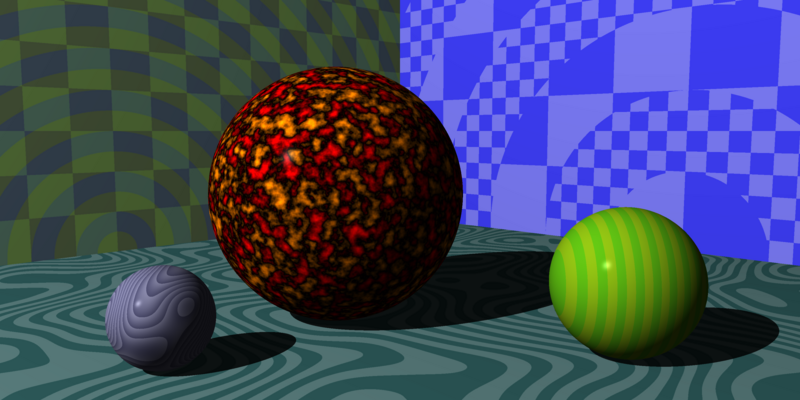
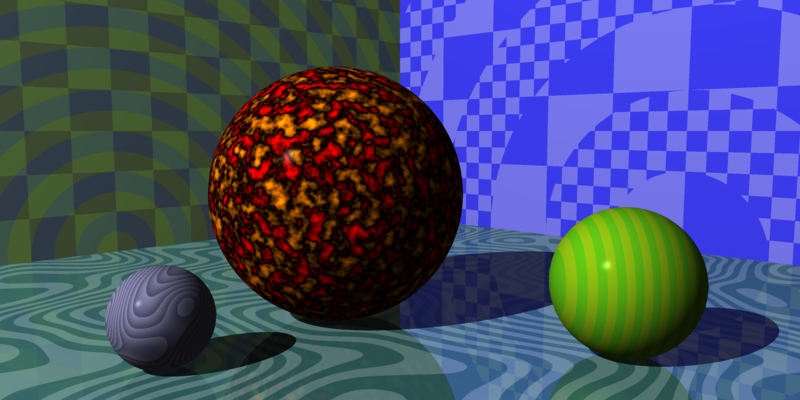
reflective surfaces

diff --git a/src/world.rs b/src/world.rs
@@ -48,22 +48,25 @@ pub mod world {
             xs
         }
 
-        pub fn shade_hit(&self, comps: &Computations) -> Color {
+        pub fn shade_hit(&self, comps: &Computations, remaining: usize) -> Color {
             // TODO: support multiple light sources, loop through all lights and sum the results
-            lighting(
+            let surface = lighting(
                      &comps.object,
                      &self.light,
                      &comps.over_point,
                      &comps.eyev,
                      &comps.normalv,
-                     self.is_shadowed(&comps.over_point))
+                     self.is_shadowed(&comps.over_point));
+            let reflected = self.reflected_color(comps, remaining);
+
+            surface.add(&reflected)
         }
 
-        pub fn color_at(&self, r: &Ray) -> Color {
+        pub fn color_at(&self, r: &Ray, remaining: usize) -> Color {
             let xs = self.intersect(r);
             if let Some(hit) = xs.iter().find(|x| x.t >= 0.0) {
                 let comps = hit.prepare_computations(r);
-                self.shade_hit(&comps)
+                self.shade_hit(&comps, remaining)
             } else {
                 Color::new(0.0, 0.0, 0.0)
             }
@@ -80,6 +83,16 @@ pub mod world {
                 Some(hit) => hit.t < distance,
                 None => false
             }
+        }
+
+        pub fn reflected_color(&self, comps: &Computations, remaining: usize) -> Color {
+            if remaining <= 0 || comps.object.material.reflective == 0.0 {
+                return Color::new(0.0, 0.0, 0.0);
+            }
+
+            let reflect_ray = Ray::new(comps.over_point, comps.reflectv);
+            let color = self.color_at(&reflect_ray, remaining - 1);
+            color * comps.object.material.reflective
         }
     }
 }
@@ -136,7 +149,7 @@ mod tests {
         let shape = &w.objects[0];
         let i = Intersection{t: 4.0, object: shape};
         let comps = i.prepare_computations(&r);
-        let c = w.shade_hit(&comps);
+        let c = w.shade_hit(&comps,5);
         assert_eq!(c, Color::new(0.38066, 0.47583, 0.2855));
     }
 
@@ -148,7 +161,7 @@ mod tests {
         let shape = &w.objects[1];
         let i = Intersection{t: 0.5, object: shape};
         let comps = i.prepare_computations(&r);
-        let c = w.shade_hit(&comps);
+        let c = w.shade_hit(&comps,5);
         assert_eq!(c, Color::new(0.9049844720832575, 0.9049844720832575, 0.9049844720832575));
     }
 
@@ -163,7 +176,7 @@ mod tests {
         let r = Ray::new(Tuple::point(0.0, 0.0, 5.0), Tuple::vector(0.0, 0.0, 1.0));
         let i = Intersection{t: 4.0, object: &w.objects[1]};
         let comps = i.prepare_computations(&r);
-        let c = w.shade_hit(&comps);
+        let c = w.shade_hit(&comps,5);
         assert_eq!(c, Color::new(0.1, 0.1, 0.1));
     }
 
@@ -171,7 +184,7 @@ mod tests {
     fn the_color_when_a_ray_misses() {
         let w = World::default_world();
         let r = Ray::new(Tuple::point(0.0, 0.0, -5.0), Tuple::vector(0.0, 1.0, 0.0));
-        let c = w.color_at(&r);
+        let c = w.color_at(&r,5);
         assert_eq!(c, Color::new(0.0, 0.0, 0.0));
     }
 
@@ -179,7 +192,7 @@ mod tests {
     fn the_color_when_a_ray_hits() {
         let w = World::default_world();
         let r = Ray::new(Tuple::point(0.0, 0.0, -5.0), Tuple::vector(0.0, 0.0, 1.0));
-        let c = w.color_at(&r);
+        let c = w.color_at(&r,5);
         assert_eq!(c, Color::new(0.38066, 0.47583, 0.2855));
     }
 
@@ -189,7 +202,7 @@ mod tests {
         w.objects[0].material.ambient = 1.0;
         w.objects[1].material.ambient = 1.0;
         let r = Ray::new(Tuple::point(0.0, 0.0, 0.75), Tuple::vector(0.0, 0.0, -1.0));
-        let c = w.color_at(&r);
+        let c = w.color_at(&r,5);
         let obj_color = match w.objects[1].material.pattern.pattern_type {
             PatternType::Solid(c) => c,
             _ => Color::new(0.0, 0.0, 0.0)
@@ -223,5 +236,123 @@ mod tests {
         let w = World::default_world();
         let p = Tuple::point(-2.0, 2.0, -2.0);
         assert_eq!(w.is_shadowed(&p), false);
+    }
+
+    #[test]
+    fn reflected_color_for_the_a_nonreflective_material() {
+        let light = Light::new_point_light(Tuple::point(-10.0, 10.0, -10.0), Color::new(1.0, 1.0, 1.0));
+        let mut s1 = Shape::sphere();
+        s1.material.pattern = Pattern::solid(Color::new(0.8, 1.0, 0.6), Matrix::identity(4));
+        s1.material.diffuse = 0.7;
+        s1.material.specular = 0.2;
+        let mut s2 = Shape::sphere();
+        s2.transform = Matrix::scale(0.5, 0.5, 0.5);
+        s2.material.ambient = 1.0;
+        let w = World {
+            light,
+            objects: vec![s1, s2],
+        };
+
+        let r = Ray::new(Tuple::point(0.0, 0.0, 0.0), Tuple::vector(0.0, 0.0, 1.0));
+        let i = Intersection{t: 1.0, object: &w.objects[1]};
+        let comps = i.prepare_computations(&r);
+        let color = w.reflected_color(&comps, 5);
+        assert_eq!(color, Color::new(0.0, 0.0, 0.0));
+    }
+
+    #[test]
+    fn reflected_color_for_a_reflective_material() {
+        let light = Light::new_point_light(Tuple::point(-10.0, 10.0, -10.0), Color::new(1.0, 1.0, 1.0));
+        let mut s1 = Shape::sphere();
+        s1.material.pattern = Pattern::solid(Color::new(0.8, 1.0, 0.6), Matrix::identity(4));
+        s1.material.diffuse = 0.7;
+        s1.material.specular = 0.2;
+        let mut s2 = Shape::sphere();
+        s2.transform = Matrix::scale(0.5, 0.5, 0.5);
+        s2.material.ambient = 1.0;
+        let mut s3 = Shape::plane();
+        s3.material.reflective = 0.5;
+        s3.transform = Matrix::translate(0.0, -1.0, 0.0);
+
+        let w = World {
+            light,
+            objects: vec![s1, s2, s3],
+        };
+
+        let r = Ray::new(Tuple::point(0.0, 0.0, -3.0), Tuple::vector(0.0, -2.0_f64.sqrt()/2.0, 2.0_f64.sqrt()/2.0));
+        let i = Intersection{t: 2.0_f64.sqrt(), object: &w.objects[2]};
+        let comps = i.prepare_computations(&r);
+        let color = w.reflected_color(&comps, 5);
+        assert_eq!(color, Color::new(0.190332201495133, 0.23791525186891627, 0.14274915112134975));
+    }
+
+    #[test]
+    fn shade_hit_for_a_reflective_material() {
+        let light = Light::new_point_light(Tuple::point(-10.0, 10.0, -10.0), Color::new(1.0, 1.0, 1.0));
+        let mut s1 = Shape::sphere();
+        s1.material.pattern = Pattern::solid(Color::new(0.8, 1.0, 0.6), Matrix::identity(4));
+        s1.material.diffuse = 0.7;
+        s1.material.specular = 0.2;
+        let mut s2 = Shape::sphere();
+        s2.transform = Matrix::scale(0.5, 0.5, 0.5);
+        s2.material.ambient = 1.0;
+        let mut s3 = Shape::plane();
+        s3.material.reflective = 0.5;
+        s3.transform = Matrix::translate(0.0, -1.0, 0.0);
+
+        let w = World {
+            light,
+            objects: vec![s1, s2, s3],
+        };
+
+        let r = Ray::new(Tuple::point(0.0, 0.0, -3.0), Tuple::vector(0.0, -2.0_f64.sqrt()/2.0, 2.0_f64.sqrt()/2.0));
+        let i = Intersection{t: 2.0_f64.sqrt(), object: &w.objects[2]};
+        let comps = i.prepare_computations(&r);
+        let color = w.shade_hit(&comps,5);
+        assert_eq!(color, Color::new(0.8767572837020907, 0.924340334075874, 0.8291742333283075));
+    }
+
+    #[test]
+    fn color_at_with_mutually_reflective_surfaces() {
+        let light = Light::new_point_light(Tuple::point(0.0, 0.0, 0.0), Color::new(1.0, 1.0, 1.0));
+        let mut lower = Shape::plane();
+        lower.material.reflective = 1.0;
+        lower.transform = Matrix::translate(0.0, -1.0, 0.0);
+        let mut upper = Shape::plane();
+        upper.material.reflective = 1.0;
+        upper.transform = Matrix::translate(0.0, 1.0, 0.0);
+        let w = World {
+            light,
+            objects: vec![lower, upper],
+        };
+        let r = Ray::new(Tuple::point(0.0, 0.0, 0.0), Tuple::vector(0.0, 1.0, 0.0));
+        let c = w.color_at(&r,5);
+        assert_eq!(c, Color::new(11.4,11.4,11.4));
+    }
+
+    #[test]
+    fn reflected_color_at_the_maximum_recursive_depth() {
+        let light = Light::new_point_light(Tuple::point(-10.0, 10.0, -10.0), Color::new(1.0, 1.0, 1.0));
+        let mut s1 = Shape::sphere();
+        s1.material.pattern = Pattern::solid(Color::new(0.8, 1.0, 0.6), Matrix::identity(4));
+        s1.material.diffuse = 0.7;
+        s1.material.specular = 0.2;
+        let mut s2 = Shape::sphere();
+        s2.transform = Matrix::scale(0.5, 0.5, 0.5);
+        s2.material.ambient = 1.0;
+        let mut s3 = Shape::plane();
+        s3.material.reflective = 0.5;
+        s3.transform = Matrix::translate(0.0, -1.0, 0.0);
+
+        let w = World {
+            light,
+            objects: vec![s1, s2, s3],
+        };
+
+        let r = Ray::new(Tuple::point(0.0, 0.0, -3.0), Tuple::vector(0.0, -2.0_f64.sqrt()/2.0, 2.0_f64.sqrt()/2.0));
+        let i = Intersection{t: 2.0_f64.sqrt(), object: &w.objects[2]};
+        let comps = i.prepare_computations(&r);
+        let color = w.reflected_color(&comps,0);
+        assert_eq!(color, Color::new(0.0, 0.0, 0.0));
     }
 }

diff --git a/src/ray.rs b/src/ray.rs
@@ -22,6 +22,7 @@ pub mod ray {
         pub normalv: Tuple,
         pub inside: bool,
         pub over_point: Tuple,
+        pub reflectv: Tuple,
     }
 
     impl<'a> Intersection<'a> {
@@ -32,7 +33,8 @@ pub mod ray {
             let inside = normalv.dot(&eyev) < 0.0;
             let normalv = if inside { normalv.negate() } else { normalv };
             let over_point = point.add(&normalv.multiply(EPSILON));
-            Computations { t: self.t, object: self.object, point, eyev, normalv, inside, over_point }
+            let reflectv = r.direction.reflect(&normalv);
+            Computations { t: self.t, object: self.object, point, eyev, normalv, inside, over_point, reflectv }
         }
     }
 
@@ -257,5 +259,14 @@ mod tests {
         assert_eq!(comps.eyev, Tuple::vector(0.0, 0.0, -1.0));
         assert_eq!(comps.normalv, Tuple::vector(0.0, 0.0, -1.0));
         assert_eq!(comps.inside, true);
+    }
+
+    #[test]
+    fn precomputing_the_reflection_vector() {
+        let s = Shape::plane();
+        let r = Ray::new(Tuple::point(0.0, 1.0, -1.0), Tuple::vector(0.0, -2.0_f64.sqrt() / 2.0, 2.0_f64.sqrt() / 2.0));
+        let i = super::ray::Intersection { t: 2.0_f64.sqrt(), object: &s };
+        let comps = i.prepare_computations(&r);
+        assert_eq!(comps.reflectv, Tuple::vector(0.0, 2.0_f64.sqrt() / 2.0, 2.0_f64.sqrt() / 2.0));
     }
 }

diff --git a/src/camera.rs b/src/camera.rs
@@ -74,7 +74,7 @@ pub mod camera {
             let iter = pixel_coordinates(self.vsize, self.hsize).par_bridge();
             iter.for_each(|(x, y)| {
                 let ray = self.ray_for_pixel(x, y);
-                let color = world.color_at(&ray);
+                let color = world.color_at(&ray, 5);
                 let mut image = image.lock().unwrap();
                 image.write_pixel(x, y, color);
                 drop(image); // unlock the mutex
@@ -89,7 +89,7 @@ pub mod camera {
             let bar = ProgressBar::new((self.vsize * self.hsize) as u64);
             for (x, y) in pixel_coordinates(self.vsize, self.hsize) {
                 let ray = self.ray_for_pixel(x, y);
-                let color = world.color_at(&ray);
+                let color = world.color_at(&ray, 5);
                 image.write_pixel(x, y, color);
                 bar.inc(1);
             }

diff --git a/src/color.rs b/src/color.rs
@@ -1,6 +1,8 @@
 #![allow(dead_code)]
 
 pub mod color {
+    use std::ops::Mul;
+
     const EPSILON: f64 = 0.00001;
 
     #[derive(Debug, Clone, Copy)]
@@ -39,6 +41,15 @@ pub mod color {
             Color::new(self.r * other.r, self.g * other.g, self.b * other.b)
         }
     }
+
+    impl Mul<f64> for Color {
+        type Output = Color;
+
+        fn mul(self, rhs: f64) -> Self::Output {
+            Color::new(self.r * rhs, self.g * rhs, self.b * rhs)
+        }
+    }
+
 }
 
 #[cfg(test)]
